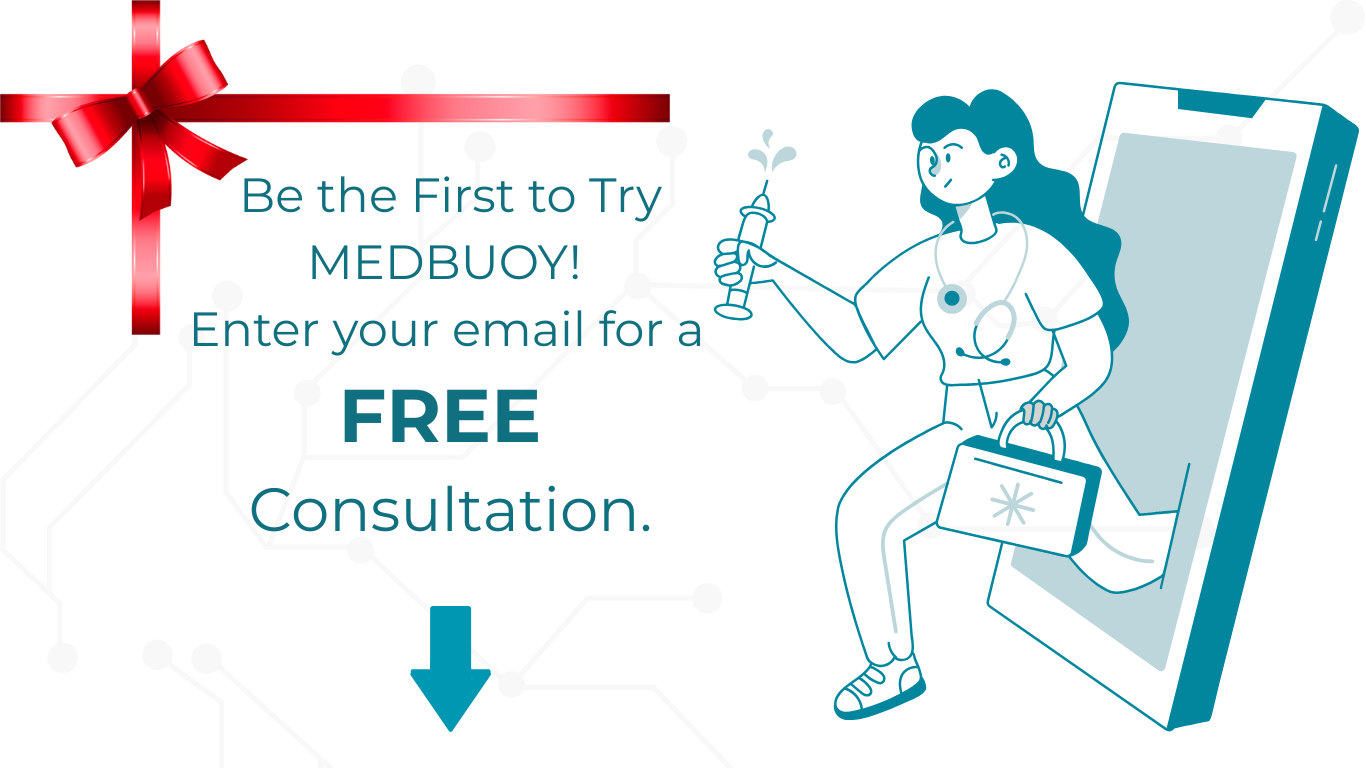
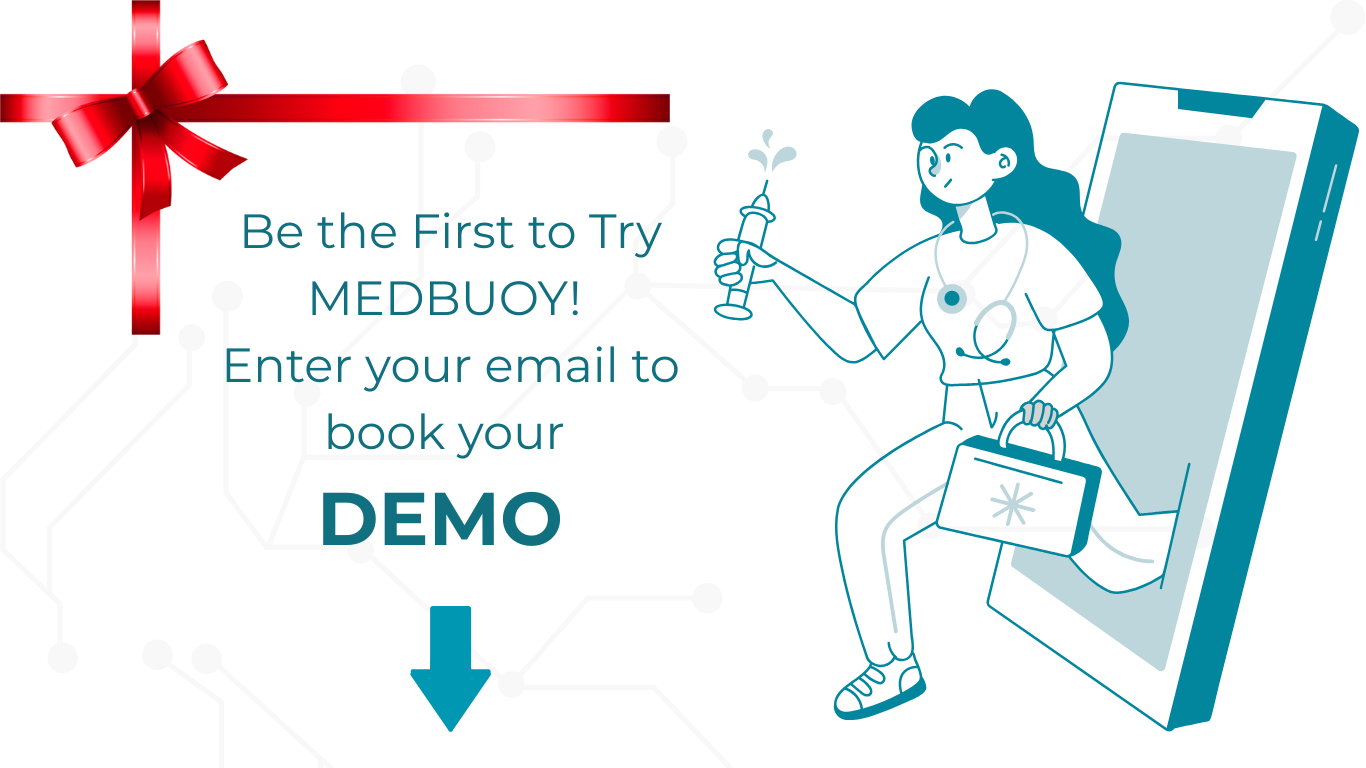
Updated MEDBUOY website with new changes

Changed region(s): [[0.123, 0.2188, 0.5227, 0.5938], [0.1845, 0.625, 0.4919, 0.7188]]

diff --git a/public/thank-you.html b/public/thank-you.html
@@ -7,7 +7,7 @@
 </head>
 <body>
     <h1>Thank You!</h1>
-    <p>Your email has been submitted. We'll notify you once MEDBUOY launches!</p>
+    <p>Your email has been submitted. We'll notify you once MEDBUOY demo is ready!</p>
     <a href="/">Back to Home</a>
 </body>
 </html>
